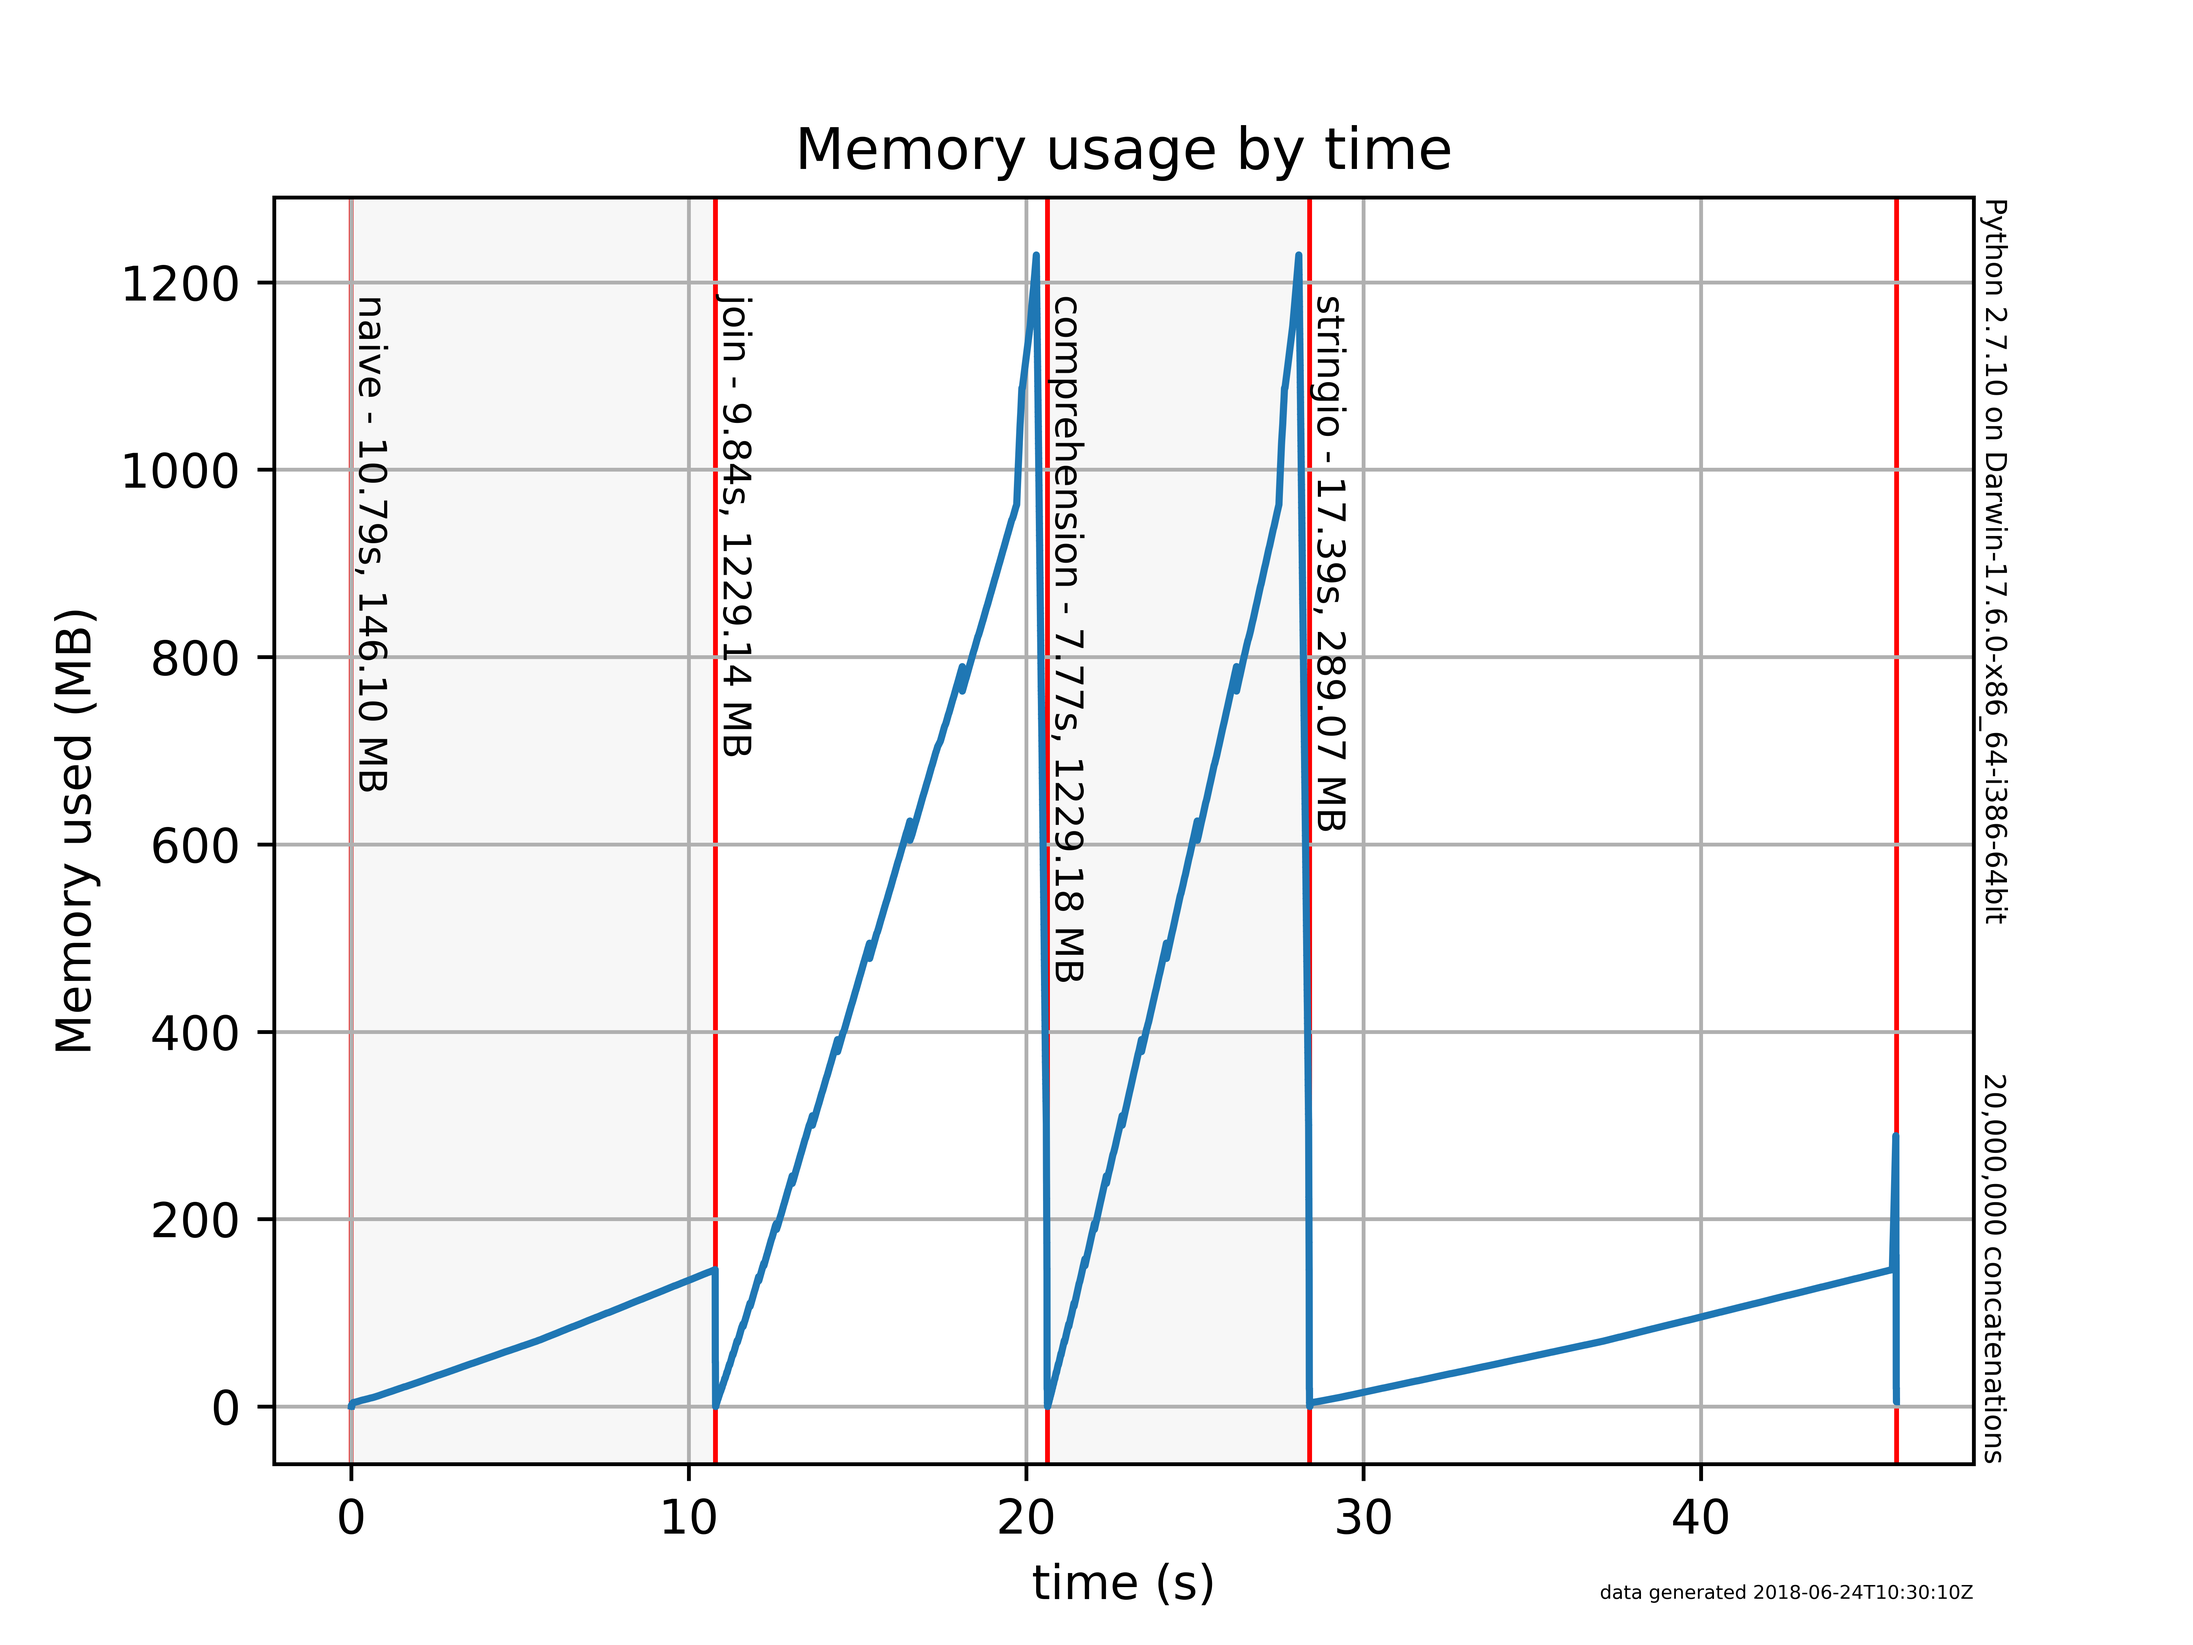
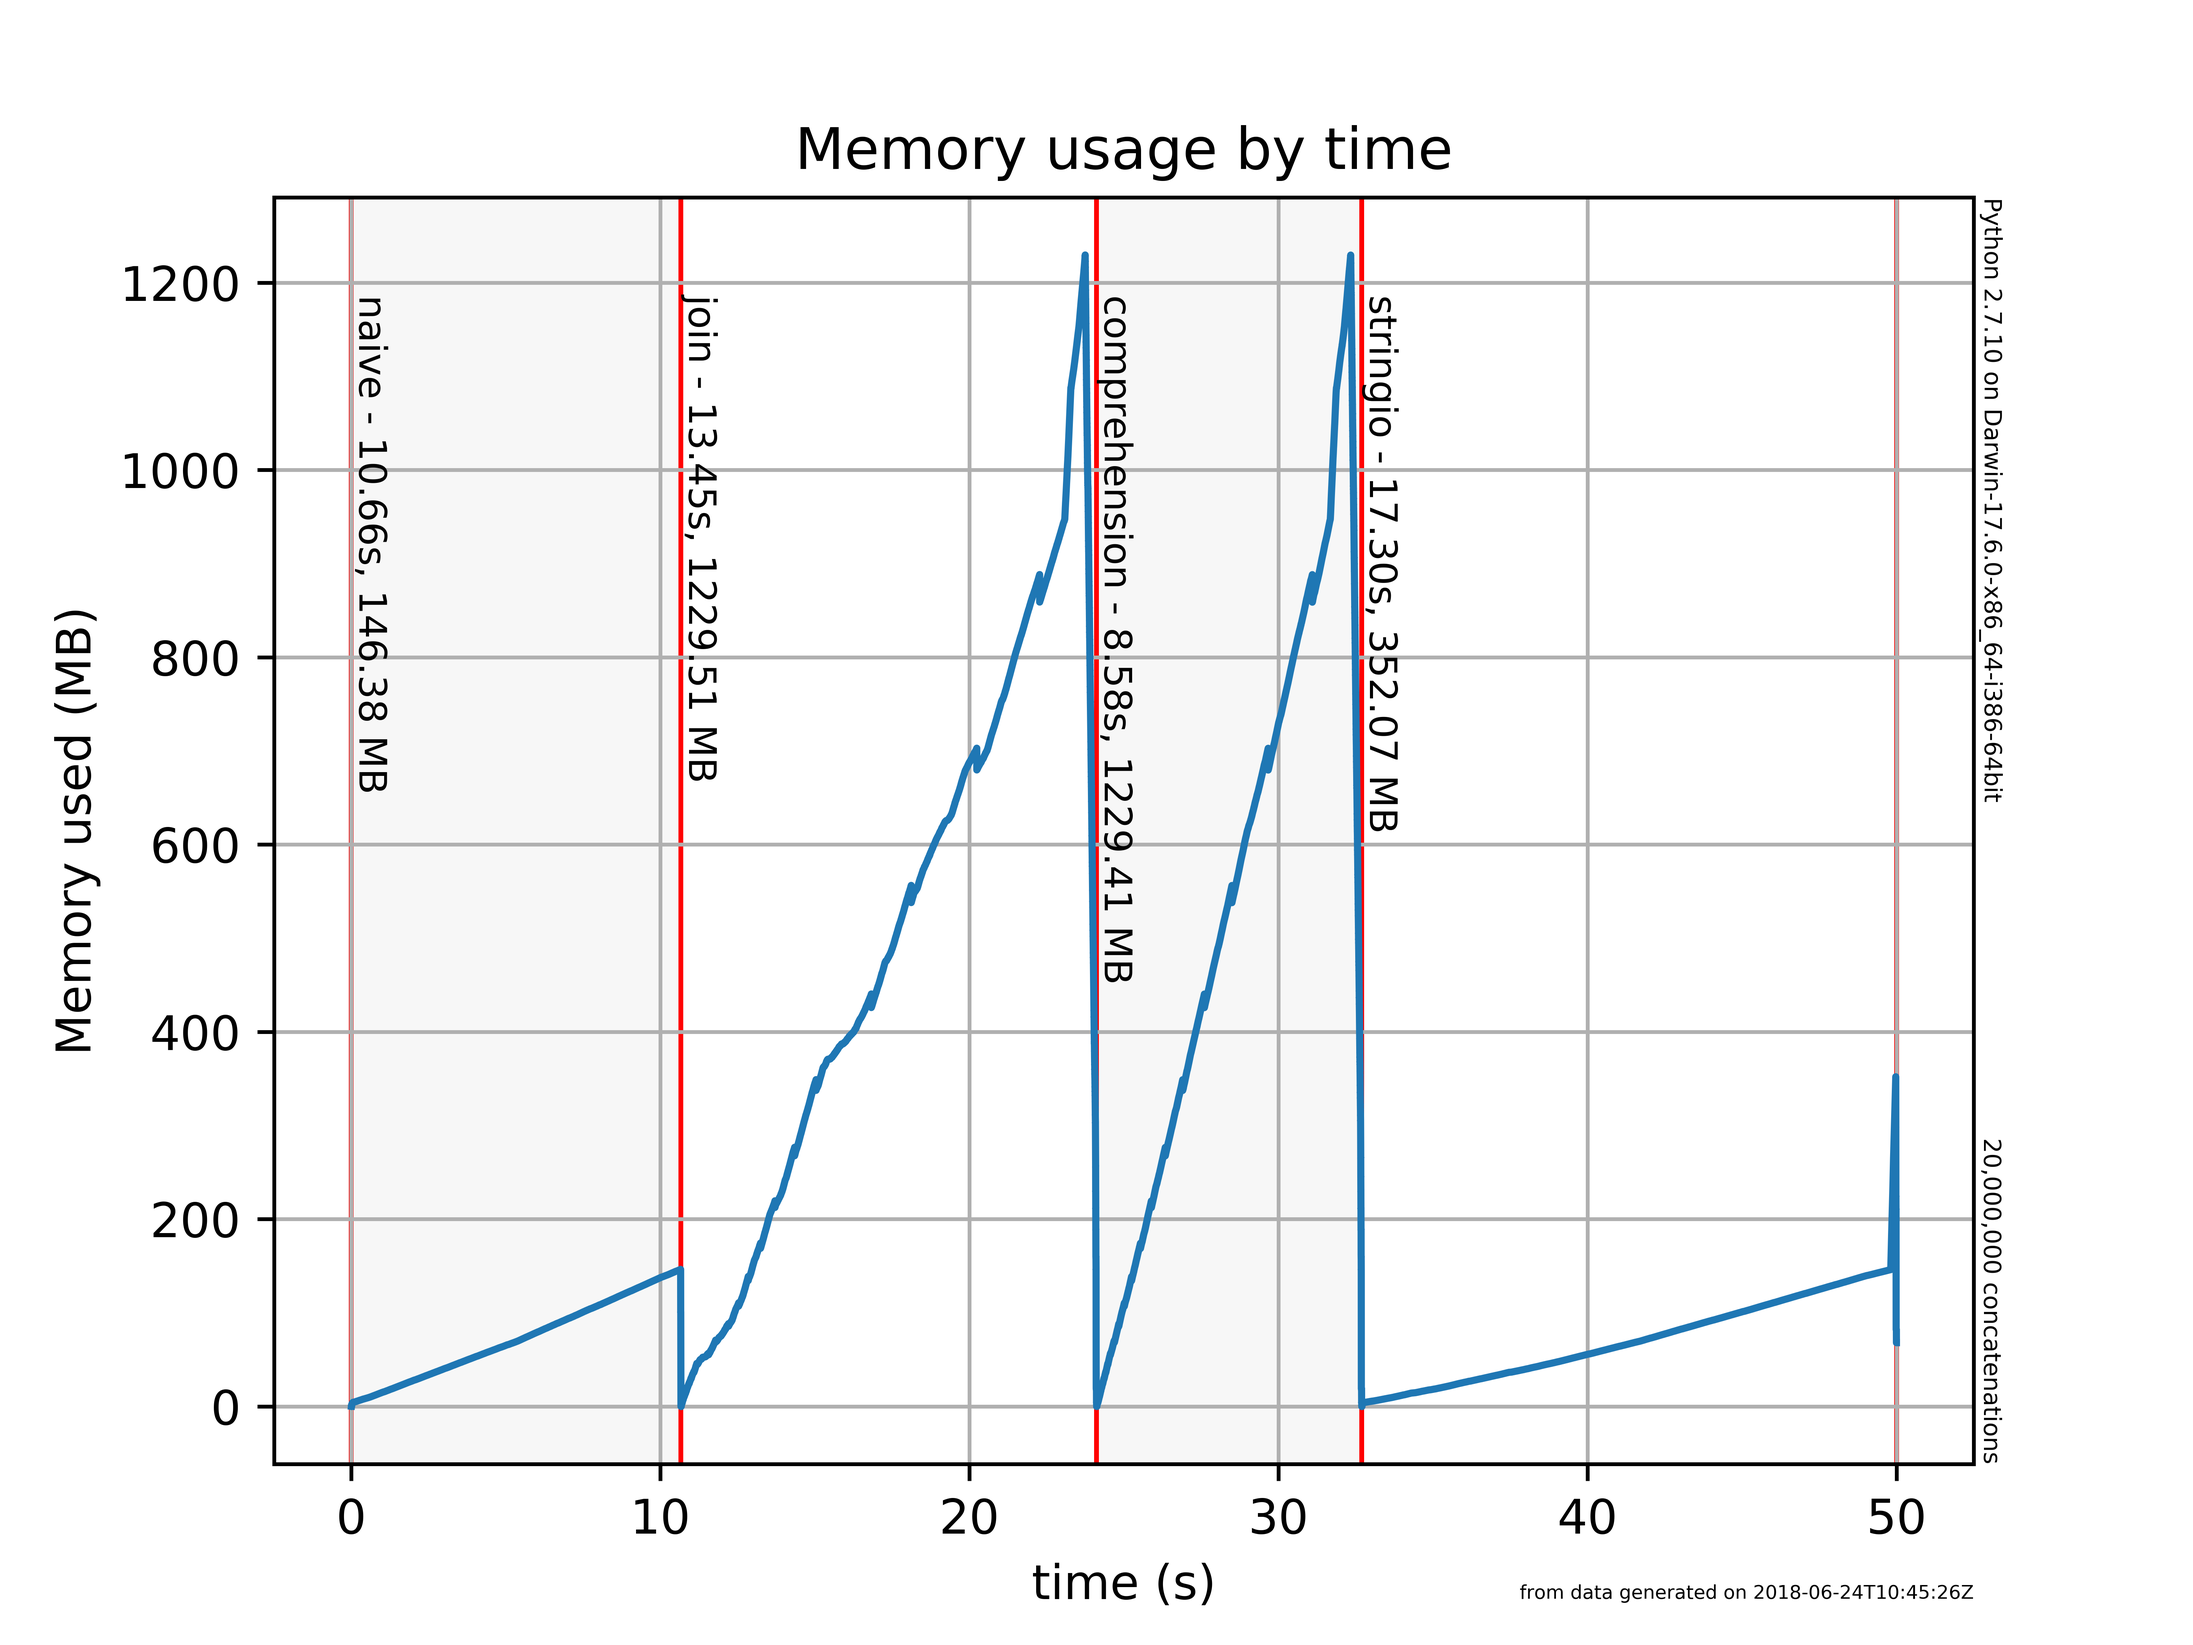
Minor reposition of datetime annotation

diff --git a/plot.py b/plot.py
@@ -64,7 +64,7 @@ def plot_graph(t, s, anno, unit_name, output_file, quiet, p_info, dt):
                 rotation=270, horizontalalignment='left', verticalalignment='top')
 
     # put the number of loops in as a "footnote"
-    matplotlib.rc('font', **{'size': 6})  # set font size smaller
+    matplotlib.rc('font', **{'size': 5})  # set font size smaller
     ax.annotate(f'{common.loops:,} concatenations', xy=(0, 0), 
                 xycoords='data', rotation=270,
                 xytext=(1.003, 0.00), textcoords='axes fraction',
@@ -72,7 +72,7 @@ def plot_graph(t, s, anno, unit_name, output_file, quiet, p_info, dt):
 
     # put the platform description string in if we have one
     if p_info:
-        matplotlib.rc('font', **{'size': 6})  # set font size smaller
+        matplotlib.rc('font', **{'size': 5})  # set font size smaller
         ax.annotate(f'{p_info}', xy=(0, 0),
                     xycoords='data', rotation=270,
                     xytext=(1.003, 1.00), textcoords='axes fraction',
@@ -80,7 +80,7 @@ def plot_graph(t, s, anno, unit_name, output_file, quiet, p_info, dt):
 
     # put a 'date/time modified' string on the graph
     matplotlib.rc('font', **{'size': 4})  # set font size smaller
-    ax.annotate(f'data generated {dt}', xy=(0, 0),
+    ax.annotate(f'from data generated on {dt}', xy=(0, 0),
                 xycoords='data', #rotation=270,
                 xytext=(1.0, -0.095), textcoords='axes fraction',
                 horizontalalignment='right', verticalalignment='top')
